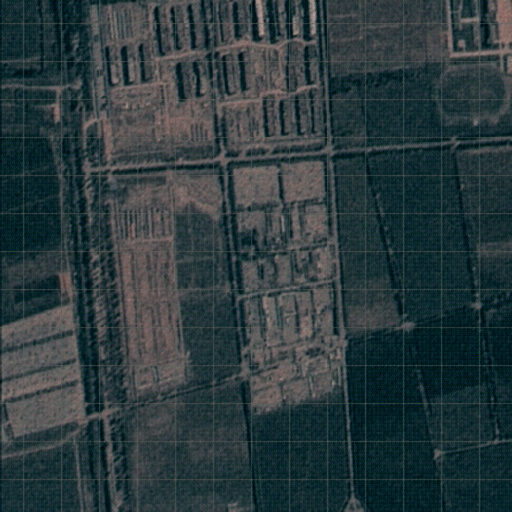
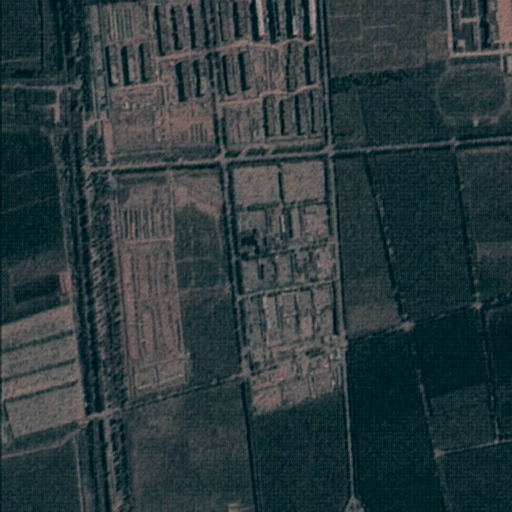
Add weight to overlap region, eliminate margin effect.

diff --git a/dataset/OverlapCrop.py b/dataset/OverlapCrop.py
@@ -53,29 +53,37 @@ class OverlapCrop():
 
     def _hpad(self, arr_l, arr_r, overlap=10):
         if arr_l.size == 1:
-            return arr_r
+            return arr_r.astype(np.float32)
         h, w, c = arr_l.shape
         patch_w = arr_r.shape[1]
+        if overlap == 10:
+            weight = np.array([0.03, 0.08, 0.15, 0.25, 0.5, 0.5, 0.75, 0.85, 0.92, 0.97])
+            weight = np.expand_dims(weight, axis=0)
+            weight = np.expand_dims(weight, axis=2)
         result = np.zeros((h, w + patch_w - overlap, c))
         result[:, :w-overlap, :] = arr_l[:, :w-overlap, :]
-        # tmp = np.round((arr_l[:, -overlap:, :] + arr_r[:, :overlap, :]) / 2)
+        tmp = arr_l[:, -overlap:, :] * (1-weight) + arr_r[:, :overlap, :] * weight
         # tmp = arr_l[:, -overlap:, :]
-        tmp = arr_r[:, :overlap, :]
-        result[:, w-overlap:w, :] = tmp.astype(arr_l.dtype)
+        # tmp = arr_r[:, :overlap, :]
+        result[:, w-overlap:w, :] = tmp
         result[:, w:, :] = arr_r[:, overlap:, :]
         return result
 
     def _vpad(self, arr_up, arr_down, overlap=10):
         if arr_up.size == 1:
-            return arr_down
+            return arr_down.astype(np.float32)
         h, w, c = arr_up.shape
         pathch_h = arr_down.shape[0]
+        if overlap == 10:
+            weight = np.array([0.03, 0.08, 0.15, 0.25, 0.5, 0.5, 0.75, 0.85, 0.92, 0.97])
+            weight = np.expand_dims(weight, axis=1)
+            weight = np.expand_dims(weight, axis=2)
         result = np.zeros((h + pathch_h - overlap, w, c))
         result[:h-overlap, :, :] = arr_up[:h-overlap, :, :]
-        # tmp = np.round((arr_up[-overlap:, :, :] + arr_down[:overlap, :, :]) / 2)
+        tmp = arr_up[-overlap:, :, :] * (1-weight) + arr_down[:overlap, :, :] * weight
         # tmp = arr_up[-overlap:, :, :]
-        tmp = arr_down[:overlap, :, :]
-        result[h-overlap:h, :, :] = tmp.astype(arr_up.dtype)
+        # tmp = arr_down[:overlap, :, :]
+        result[h-overlap:h, :, :] = tmp
         result[h:, :, :] = arr_down[overlap:, :, :]
         return result
 
@@ -121,18 +129,19 @@ class OverlapCrop():
 
 if __name__ == "__main__":
     # img_path = "../test/female_281.jpg"
-    img_path = "../test/imagenet.png"
+    img_path = "../results/0_0_in.png"
 
-    # img = cv2.imread(img_path)
-    # input = OverlapCrop(img, patch_size=48, overlap=10)
-    # patches = input.unfold()
+    img = cv2.imread(img_path)
+    input = OverlapCrop(img, patch_size=48, overlap=10)
+    patches = input.unfold()
 
     
-    # out_img = np.zeros(img.shape * 2)
-    # output = OverlapCrop(out_img, patch_size=48, overlap=10)
-    # output.set_patches(patches)
-    # out_img = output.get_image()
+    out_img = np.zeros(img.shape)
+    output = OverlapCrop(out_img, patch_size=48, overlap=10)
+    output.set_patches(patches)
+    output.fold()
+    out_img = output.get_image()
+    print(out_img[:5, :5, :1])
 
-    test(img_path)
-
+    cv2.imwrite("./test.png", out_img.astype(np.uint8))
     
